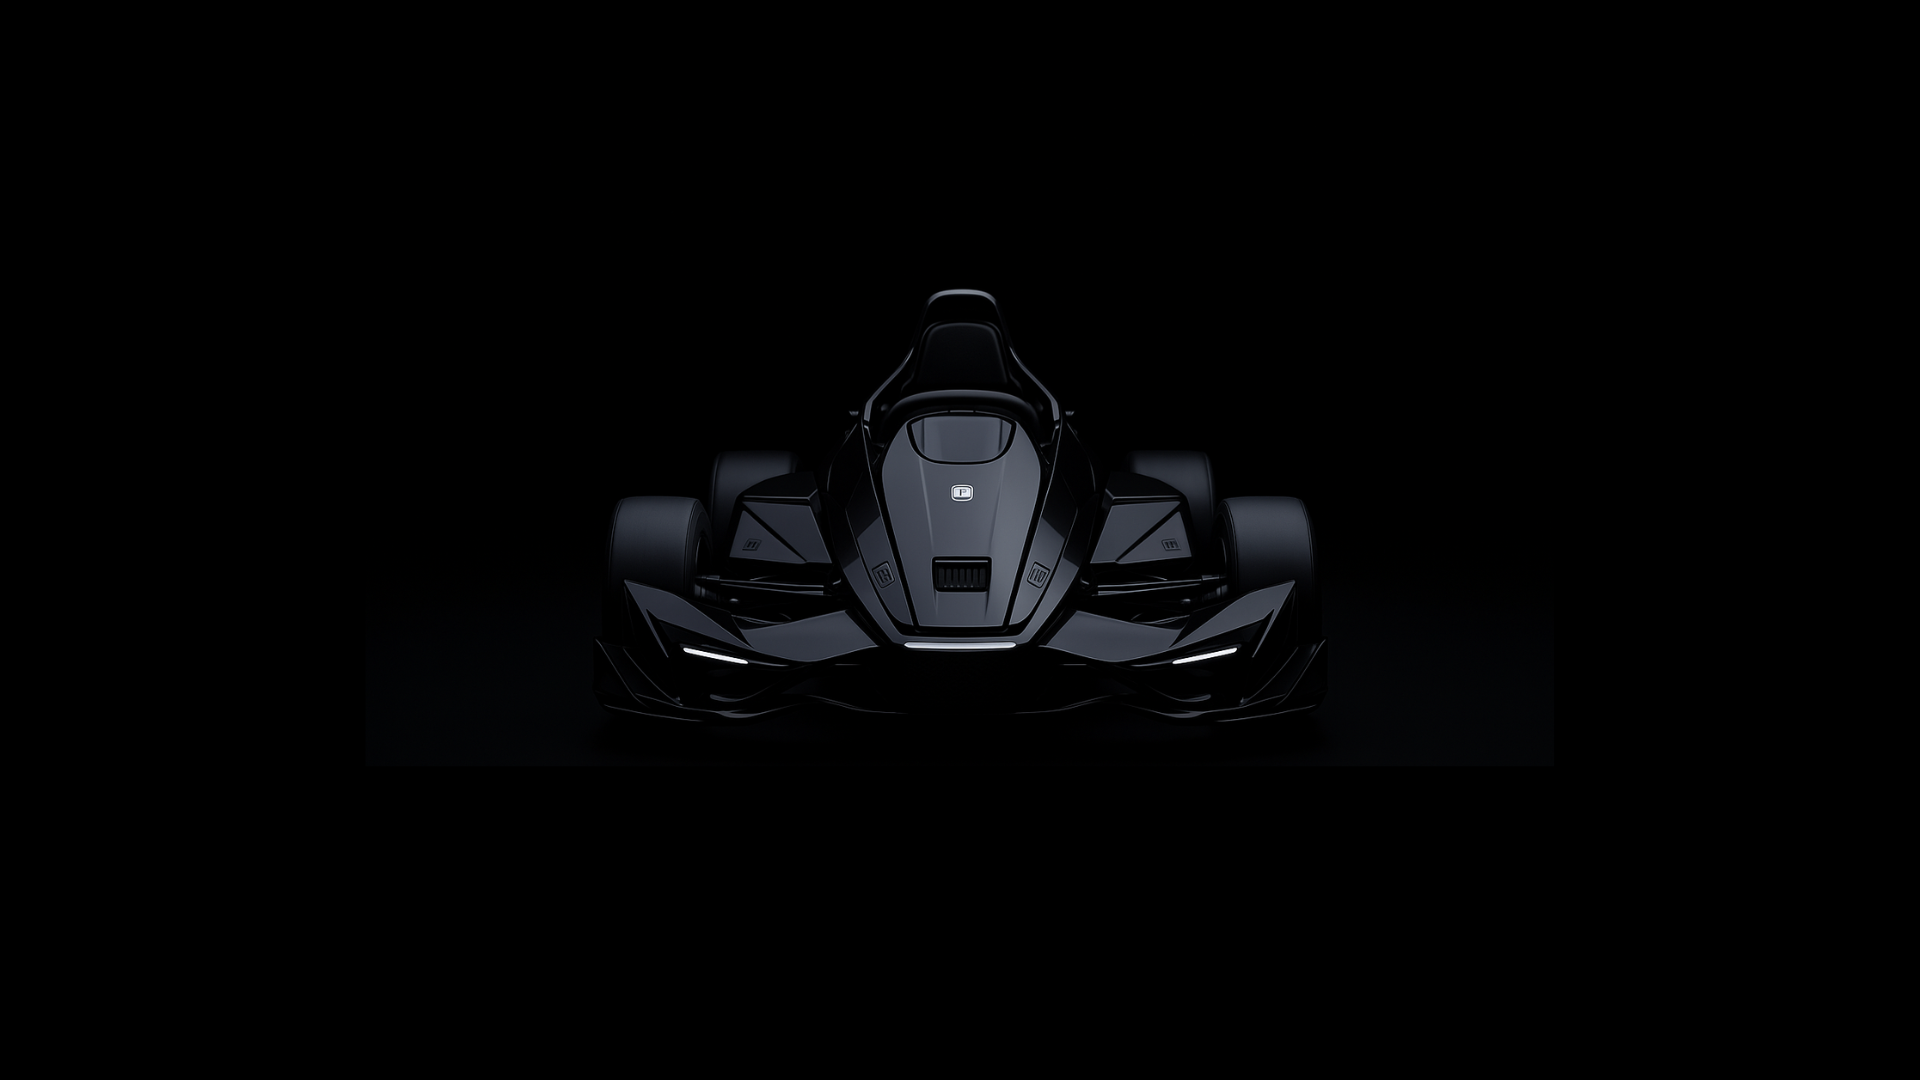
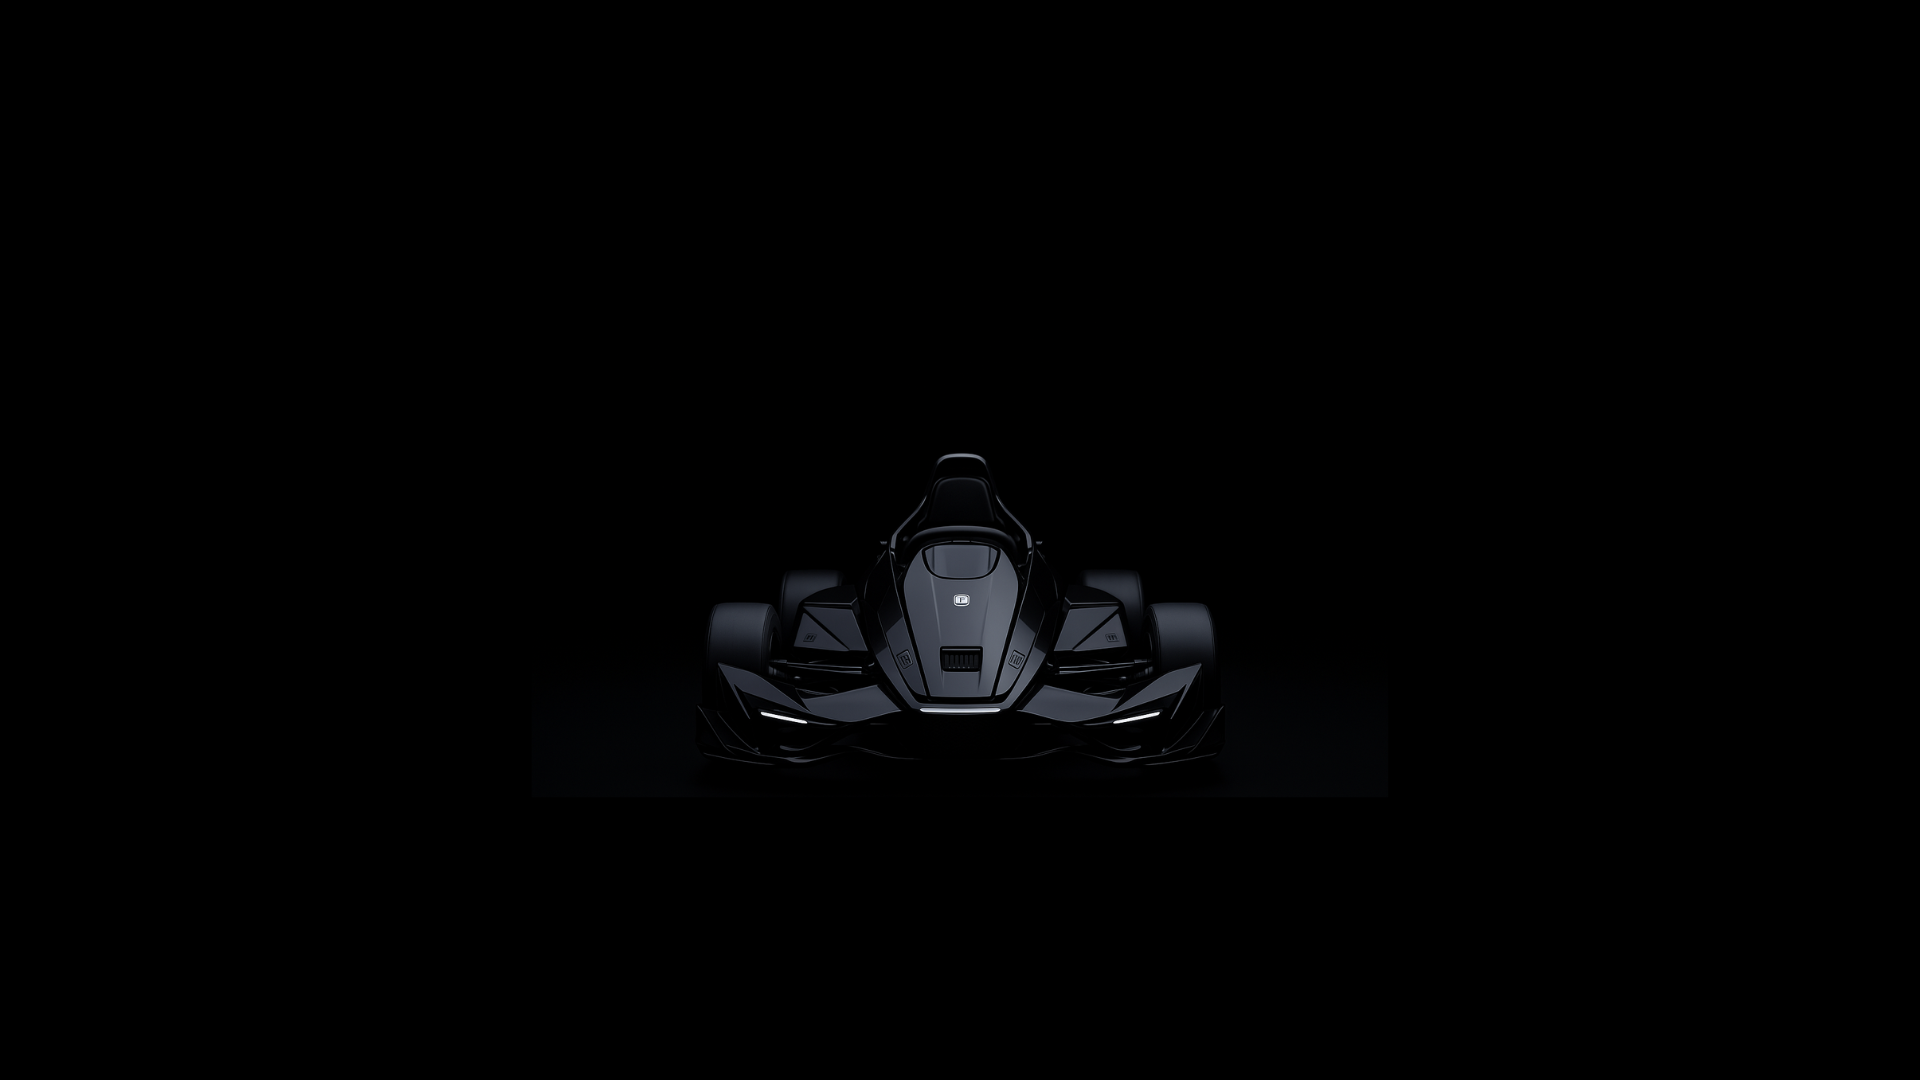
added glow

Changed region(s): [[0.3125, 0.3361, 0.6875, 0.6722]]

diff --git a/src/components/HeroSection.tsx b/src/components/HeroSection.tsx
@@ -17,17 +17,22 @@ const HeroSection = () => {
       id="home"
       className="relative min-h-screen flex items-center justify-center overflow-hidden"
     >
-
       {/* Background image with mobile optimization */}
       <div className="absolute inset-0 w-full bg-black">
         <img 
           src="/heroimage.png" 
           alt="Background" 
-          className="object-contain md:object-cover w-full h-full"
+          className="object-contain md:object-cover w-full h-full opacity-90"
           loading="eager"
           fetchPriority="high"
         />
       </div>
+
+      {/* Top left corner glow */}
+      <div className="absolute top-0 left-0 w-[400px] h-[400px] rounded-full bg-red-500/50 blur-[150px] -translate-x-1/4 -translate-y-1/4 z-10 mix-blend-screen" />
+
+      {/* Bottom right corner glow */}
+      <div className="absolute bottom-0 right-0 w-[250px] h-[250px] rounded-full bg-red-500/50 blur-[150px] translate-x-1/4 translate-y-1/4 z-10 mix-blend-screen" />
       
       {/* Navigation - Desktop */}
       <nav className="hidden md:flex fixed top-8 right-8 z-50 gap-6">
